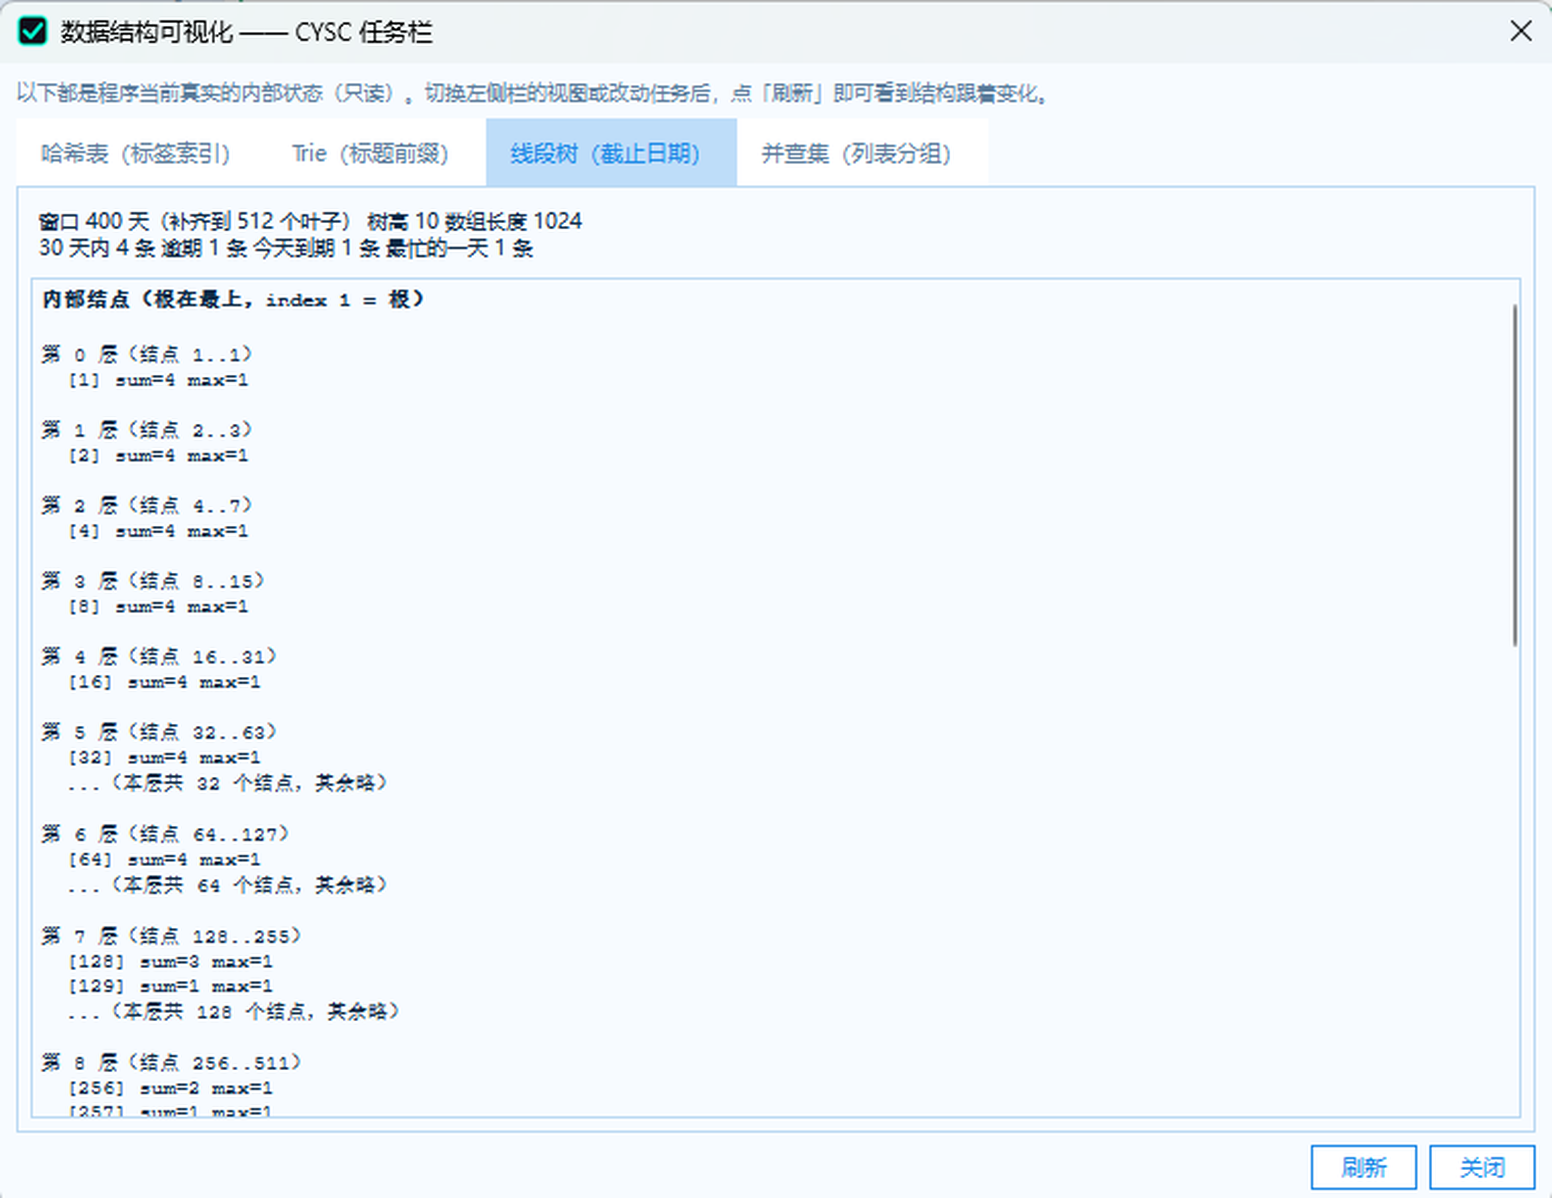
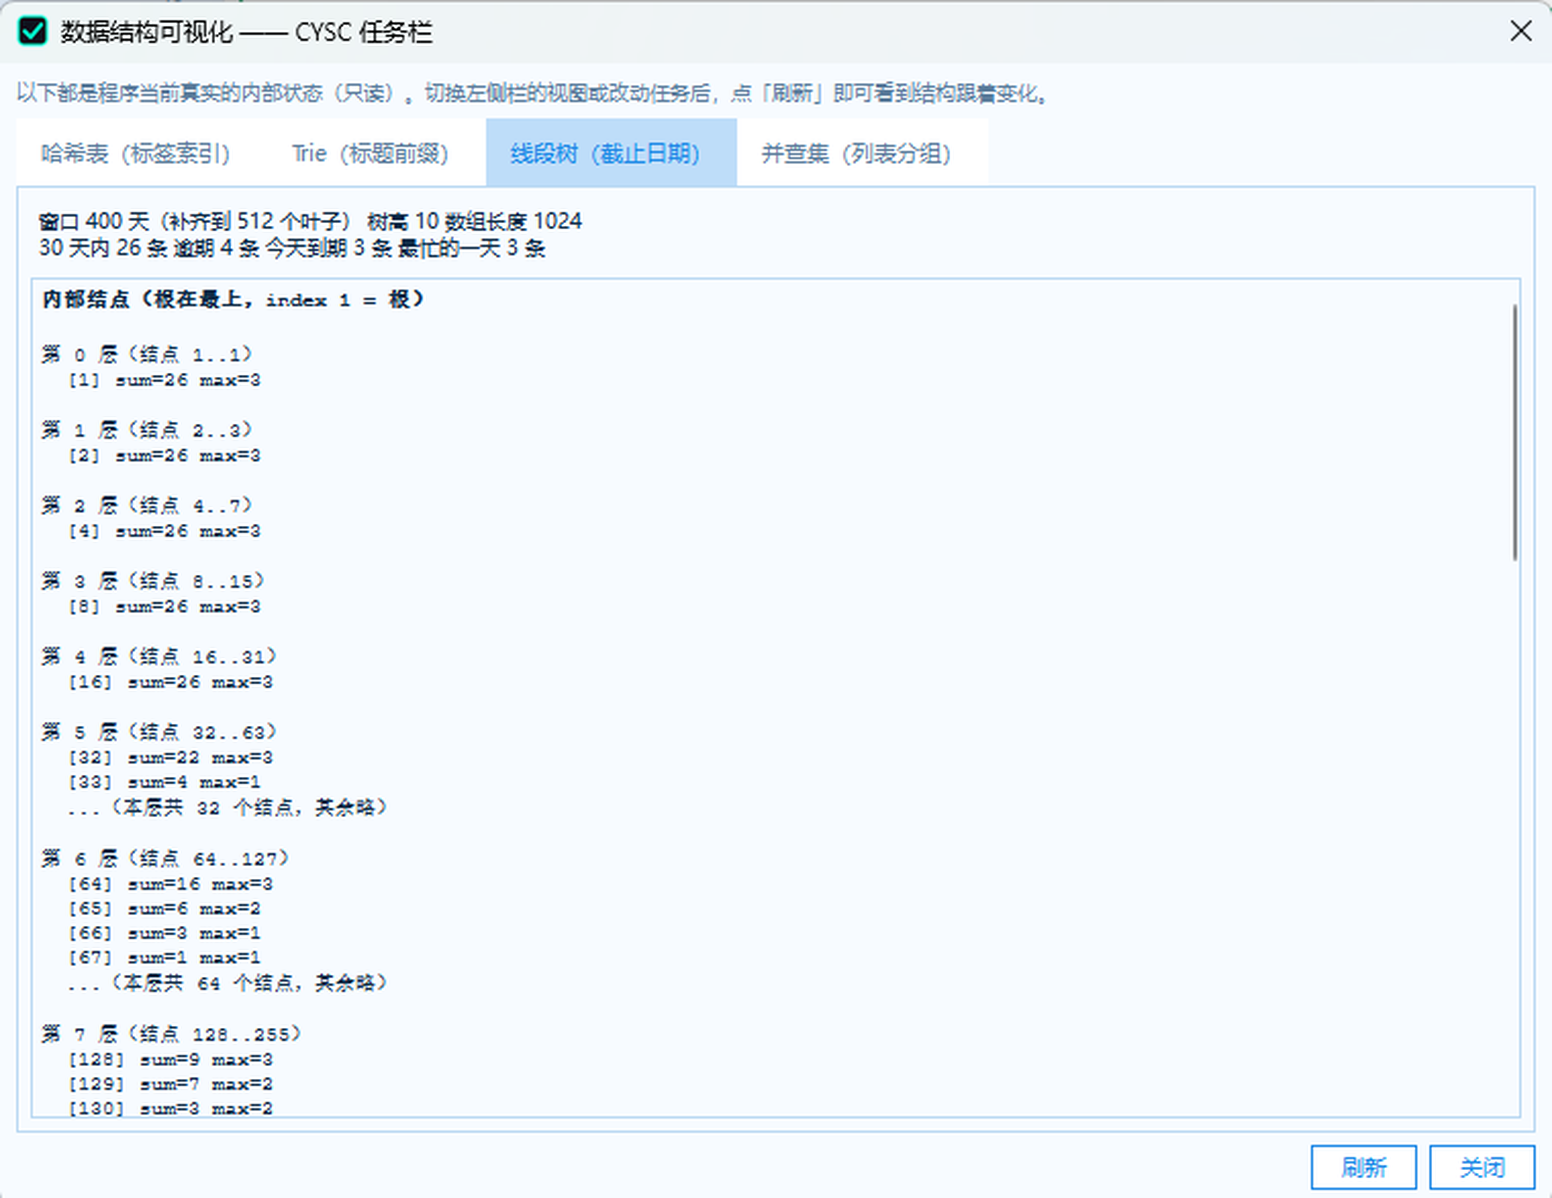
示例数据扩充为 40 条，并附可复现的生成脚本
原来的 tools/sample/cysc.db 只有 6 条、截止时间写死在 10-13~10-17，
用来演示有两个问题：
  1. 线段树面板全是 0 —— 树的窗口是「今天起 400 天」，写死的过去日期落在窗口外
  2. 只有 1 个分组、4 种标签，并查集和哈希表的倒排索引都看不出效果

新的 tools/gen_sample.py 按「相对今天」生成 40 条任务：
  状态      待办 30 / 进行中 5 / 已完成 4 / 已暂停 1
  优先级    低中高紧急都有（1 / 13 / 16 / 10）
  截止时间  -6 天铺到 +25 天，逾期 4 条、今天到期 3 条、最忙的一天 3 条
  标签      10 种（学习 19、工作 12、复习 8、答辩 7…），倒排索引与冲突链可见
  列表      7 个、两个分组（工作/学习/健康、毕业设计/论文投稿）+ 2 个未分组
  子任务    18 条，分布在 6 个任务上
  另有 10 条星标、7 条「我的一天」、4 条提醒、5 条重复任务

隔一段时间重新跑一次 python tools/gen_sample.py 就能得到时间新鲜的数据。
docs/shots 里的 5 张截图也一并换成这份数据抓的。

diff --git a/tools/gen_sample.py b/tools/gen_sample.py
@@ -1,0 +1,200 @@
+#!/usr/bin/env python3
+# -*- coding: utf-8 -*-
+"""gen_sample.py -- 生成演示用的示例数据库 tools/sample/cysc.db
+
+为什么需要这个脚本：
+  示例数据里的截止时间必须相对「今天」，否则线段树面板永远是空的
+  （线段树的窗口是「今天起 400 天」，写死的过去日期全部落在窗口外）。
+  隔一段时间重新跑一次，就能得到一份时间新鲜的演示数据。
+
+设计目标（让每个数据结构都演示得出效果）：
+  线段树 / 热力图   截止时间从 -6 天铺到 +25 天，逾期、今天到期、最忙的一天都不为 0
+  Trie              大量「复习…」「写…」「提交…」共同前缀，前缀补全才有候选
+  哈希表            标签集中在 学习 / 工作 / 复习 / 答辩，倒排索引与冲突链都看得见
+  并查集            两个分组（工作/学习/健康）、（毕业设计/论文投稿），另有未分组列表
+  栈 / 撤销         状态、子任务、优先级都有梯度，方便演示改完再撤
+
+用法：
+  python tools/gen_sample.py                 # 覆盖 tools/sample/cysc.db
+  python tools/gen_sample.py 出/来的/路径.db   # 输出到指定文件
+
+不依赖任何第三方库，也不需要先有数据库文件。
+"""
+from __future__ import annotations
+
+import datetime as dt
+import sqlite3
+import sys
+from pathlib import Path
+
+REPO = Path(__file__).resolve().parent.parent
+DEFAULT_OUT = REPO / "tools" / "sample" / "cysc.db"
+
+# 与 src/core/DatabaseManager.cpp 的建表语句保持一致
+DDL = [
+    "CREATE TABLE IF NOT EXISTS lists ("
+    "id INTEGER PRIMARY KEY, name TEXT, color TEXT, group_id INTEGER, "
+    "created_at TEXT, is_default INTEGER)",
+    "CREATE TABLE IF NOT EXISTS tasks ("
+    "id INTEGER PRIMARY KEY, title TEXT, details TEXT, priority INTEGER, "
+    "deadline TEXT, category_id INTEGER, status INTEGER, created_at TEXT, "
+    "completed_at TEXT, list_id INTEGER, starred INTEGER, in_my_day INTEGER, "
+    "reminder TEXT, recurrence INTEGER, tags TEXT, manual_order INTEGER)",
+    "CREATE TABLE IF NOT EXISTS subtasks ("
+    "id INTEGER PRIMARY KEY AUTOINCREMENT, task_id INTEGER, position INTEGER, "
+    "title TEXT, done INTEGER)",
+]
+
+TODAY = dt.date.today()
+
+# group_id：-1 表示未分组；否则存「组内最小的列表 id」（与程序里的设计一致）
+LISTS = [
+    (1, "任务", "#3D6BFF", -1, 1),
+    (2, "工作", "#FF007F", 2, 0),
+    (3, "学习", "#00AA88", 2, 0),
+    (4, "健康", "#0077FF", 2, 0),
+    (5, "阅读", "#32C8FF", -1, 0),
+    (6, "毕业设计", "#8B5CF6", 6, 0),
+    (7, "论文投稿", "#F59E0B", 6, 0),
+]
+
+# (标题, 备注, 优先级0-3, 截止日偏移, 时, 分, 分类0-3, 状态0-3, 列表, 星标, 我的一天,
+#  提醒偏移(天) 或 None, 重复0-5, 标签)
+T = [
+    # ---- 已逾期 ----
+    ("提交中期检查报告", "含进度表与下阶段计划", 3, -6, 17, 0, 2, 0, 3, 1, 0, None, 0, ["学习", "中期"]),
+    ("复习图论最短路", "Dijkstra 与 Bellman-Ford 对比", 2, -4, 20, 0, 2, 0, 3, 0, 0, None, 0, ["学习", "复习"]),
+    ("交实验报告初稿", "先给导师过一遍格式", 3, -2, 18, 0, 2, 0, 3, 1, 0, None, 0, ["学习", "课程设计"]),
+    ("小组周会纪要", "整理成三条结论发给组员", 1, -1, 10, 0, 1, 0, 2, 0, 0, None, 0, ["工作"]),
+
+    # ---- 今天 ----
+    ("写课程设计报告", "补一节数据结构运用，准备答辩演示", 3, 0, 18, 0, 2, 1, 3, 1, 1, None, 0,
+     ["学习", "答辩", "课程设计"]),
+    ("答复导师邮件", "确认答辩时间与场地", 2, 0, 12, 0, 1, 0, 2, 0, 1, 0, 0, ["工作"]),
+    ("跑步 5 公里", "配速 6 分以内", 1, 0, 7, 0, 3, 2, 4, 0, 0, None, 1, ["健康"]),
+    ("背单词 50 个", "错词单独记一遍", 1, 0, 8, 0, 2, 1, 3, 0, 1, None, 2, ["学习"]),
+
+    # ---- 未来一周 ----
+    ("复习线段树", "区间和与区间最大值", 3, 1, 20, 0, 2, 0, 3, 1, 1, None, 0, ["学习", "复习", "答辩"]),
+    ("写课程设计PPT", "一页一个结论，别堆文字", 3, 1, 21, 0, 2, 0, 3, 1, 1, None, 0,
+     ["学习", "答辩", "课程设计"]),
+    ("复习并查集", "路径压缩 + 按秩合并", 2, 2, 20, 0, 2, 0, 3, 0, 0, None, 0, ["学习", "复习"]),
+    ("整理答辩讲稿", "按老师可能问的顺序排", 2, 2, 15, 0, 2, 0, 3, 0, 0, None, 0, ["学习", "答辩"]),
+    ("复习哈希表", "冲突处理与装载因子", 2, 3, 20, 0, 2, 0, 3, 0, 0, None, 0, ["学习", "复习"]),
+    ("打印装订报告", "三份，封面用彩打", 1, 3, 16, 0, 2, 0, 3, 0, 0, None, 0, ["课程设计"]),
+    ("复习 Trie", "共享前缀与删除剪枝", 2, 4, 20, 0, 2, 0, 3, 0, 0, None, 0, ["学习", "复习"]),
+    ("答辩彩排", "计时 11 分钟，组内互问", 3, 5, 14, 0, 2, 0, 3, 1, 1, 5, 0, ["学习", "答辩"]),
+    ("复习排序算法", "快排、归并与稳定性", 2, 5, 20, 0, 2, 0, 3, 0, 0, None, 0, ["学习", "复习"]),
+    ("提交结题材料", "含源码、报告、演示视频", 3, 6, 17, 0, 2, 0, 3, 1, 0, 6, 0,
+     ["学习", "课程设计", "答辩"]),
+    ("体检预约", "空腹，上午", 1, 6, 9, 0, 3, 0, 4, 0, 0, None, 0, ["健康"]),
+    ("写周报", "本周进展 + 下周计划", 2, 7, 18, 0, 1, 0, 2, 0, 0, None, 3, ["工作"]),
+    ("读《算法导论》第 3 章", "函数的增长", 1, 7, 21, 0, 2, 0, 5, 0, 0, None, 0, ["阅读", "学习"]),
+
+    # ---- 未来两周 ----
+    ("复习动态规划", "背包与最长公共子序列", 2, 8, 20, 0, 2, 0, 3, 0, 0, None, 0, ["学习", "复习"]),
+    ("论文投稿材料", "正文 + 图表 + 作者信息", 3, 10, 17, 0, 1, 0, 7, 1, 0, 10, 0, ["论文", "工作"]),
+    ("组会汇报幻灯片", "讲清这周做了什么", 2, 10, 10, 0, 1, 0, 2, 0, 0, None, 0, ["工作"]),
+    ("论文图表重绘", "统一字号与配色", 2, 12, 15, 0, 1, 0, 7, 0, 0, None, 0, ["论文"]),
+    ("月度复盘", "看看哪些事真的推进了", 1, 14, 18, 0, 1, 0, 2, 0, 0, None, 4, ["工作"]),
+    ("半程马拉松训练", "15 公里长距离", 1, 14, 7, 0, 3, 0, 4, 0, 0, None, 3, ["健康"]),
+    ("复习字符串匹配", "KMP 的 next 数组", 2, 16, 20, 0, 2, 0, 3, 0, 0, None, 0, ["学习", "复习"]),
+    ("毕业论文开题", "与导师确认选题范围", 3, 18, 10, 0, 1, 0, 6, 1, 0, None, 0, ["论文", "工作"]),
+    ("投稿截止前复核", "检查参考文献格式", 3, 21, 23, 0, 1, 0, 7, 1, 0, None, 0, ["论文"]),
+    ("学期总结", "课程设计写进简历", 1, 25, 18, 0, 1, 0, 2, 0, 0, None, 0, ["工作"]),
+
+    # ---- 无截止时间 ----
+    ("图书馆还书", "两本，别逾期", 2, None, 0, 0, 0, 0, 5, 0, 1, None, 0, ["阅读"]),
+    ("整理桌面文件", "", 1, None, 0, 0, 0, 2, 1, 0, 0, None, 0, ["工作"]),
+    ("更新简历", "补上课程设计项目", 2, None, 0, 0, 1, 0, 6, 0, 0, None, 0, ["工作"]),
+    ("学习 Git 高级用法", "rebase、cherry-pick", 1, None, 0, 0, 2, 1, 3, 0, 0, None, 0, ["学习"]),
+    ("买显示器和键盘", "", 0, None, 0, 0, 0, 2, 1, 0, 0, None, 0, ["生活"]),
+    ("备份实验数据", "本地 + 网盘各一份", 2, None, 0, 0, 0, 2, 1, 0, 0, None, 0, ["工作"]),
+    ("整理答辩问题清单", "预估 20 个问题", 2, None, 0, 0, 2, 1, 3, 0, 0, None, 0, ["答辩"]),
+    ("给导师发进度汇报", "暂缓，等数据齐了再发", 1, None, 0, 0, 1, 3, 2, 0, 0, None, 0, ["工作"]),
+    ("读完《数据结构与算法分析》", "第 6 章优先", 1, None, 0, 0, 2, 1, 5, 0, 0, None, 0, ["阅读", "学习"]),
+]
+
+SUBTASKS = {
+    "写课程设计报告": [("收集资料", True), ("写正文", True), ("补数据结构一节", False),
+                       ("统一图表编号", False)],
+    "复习线段树": [("区间和", True), ("区间最大值", False), ("热力图怎么画", False)],
+    "写周报": [("汇总本周提交", True), ("列下周计划", False)],
+    "论文投稿材料": [("正文定稿", True), ("图表导出 300dpi", True), ("作者信息核对", False),
+                     ("投稿系统填表", False)],
+    "毕业论文开题": [("读 5 篇近三年论文", True), ("写开题报告", False), ("做开题 PPT", False)],
+    "复习并查集": [("路径压缩", True), ("按秩合并", False)],
+}
+
+
+def stamp(day_offset: int, hour: int, minute: int = 0) -> str:
+    d = TODAY + dt.timedelta(days=day_offset)
+    return d.strftime("%Y-%m-%d") + " %02d:%02d" % (hour, minute)
+
+
+def main() -> int:
+    out = Path(sys.argv[1]) if len(sys.argv) > 1 else DEFAULT_OUT
+    out.parent.mkdir(parents=True, exist_ok=True)
+    if out.exists():
+        out.unlink()
+
+    con = sqlite3.connect(str(out))
+    cur = con.cursor()
+    for sql in DDL:
+        cur.execute(sql)
+
+    for (lid, name, color, group, is_default) in LISTS:
+        cur.execute(
+            "INSERT INTO lists (id,name,color,group_id,created_at,is_default) "
+            "VALUES (?,?,?,?,?,?)",
+            (lid, name, color, group, "2026-10-01 09:%02d" % (10 + lid), is_default))
+
+    manual_order = {}
+    for tid, row in enumerate(T):
+        (title, details, prio, off, hh, mm, cat, status, lst,
+         star, my_day, remind_off, recurr, tags) = row
+        deadline = "" if off is None else stamp(off, hh, mm)
+        created = stamp(-8 + tid % 5, 9, tid % 60)
+        reminder = "" if remind_off is None else stamp(remind_off, 16, 0)
+        completed = ""
+        if status == 2:
+            completed = stamp(-1 if off is None or off > 0 else off, 20, 0)
+        order = manual_order.get(lst, 0)
+        manual_order[lst] = order + 1
+        cur.execute(
+            "INSERT INTO tasks (id,title,details,priority,deadline,category_id,status,"
+            "created_at,completed_at,list_id,starred,in_my_day,reminder,recurrence,"
+            "tags,manual_order) VALUES (?,?,?,?,?,?,?,?,?,?,?,?,?,?,?,?)",
+            (tid, title, details, prio, deadline, cat, status, created, completed, lst,
+             star, my_day, reminder, recurr, "\x1f".join(tags), order))
+
+    sid = 0
+    for tid, row in enumerate(T):
+        for pos, (st, done) in enumerate(SUBTASKS.get(row[0], [])):
+            cur.execute(
+                "INSERT INTO subtasks (id,task_id,position,title,done) VALUES (?,?,?,?,?)",
+                (sid, tid, pos, st, 1 if done else 0))
+            sid += 1
+
+    con.commit()
+    cur.execute("VACUUM")
+    con.commit()
+
+    n_task = cur.execute("SELECT COUNT(*) FROM tasks").fetchone()[0]
+    n_list = cur.execute("SELECT COUNT(*) FROM lists").fetchone()[0]
+    n_sub = cur.execute("SELECT COUNT(*) FROM subtasks").fetchone()[0]
+    overdue = cur.execute("SELECT COUNT(*) FROM tasks WHERE deadline<>'' AND deadline<?",
+                          (stamp(0, 0, 0),)).fetchone()[0]
+    today_due = cur.execute(
+        "SELECT COUNT(*) FROM tasks WHERE deadline LIKE ? AND status<>2",
+        (TODAY.strftime("%Y-%m-%d") + "%",)).fetchone()[0]
+    con.close()
+
+    print("已生成 %s" % out)
+    print("  任务 %d 条 / 列表 %d 个 / 子任务 %d 条" % (n_task, n_list, n_sub))
+    print("  逾期 %d 条，今天到期 %d 条（相对 %s）" % (overdue, today_due, TODAY))
+    return 0
+
+
+if __name__ == "__main__":
+    raise SystemExit(main())
